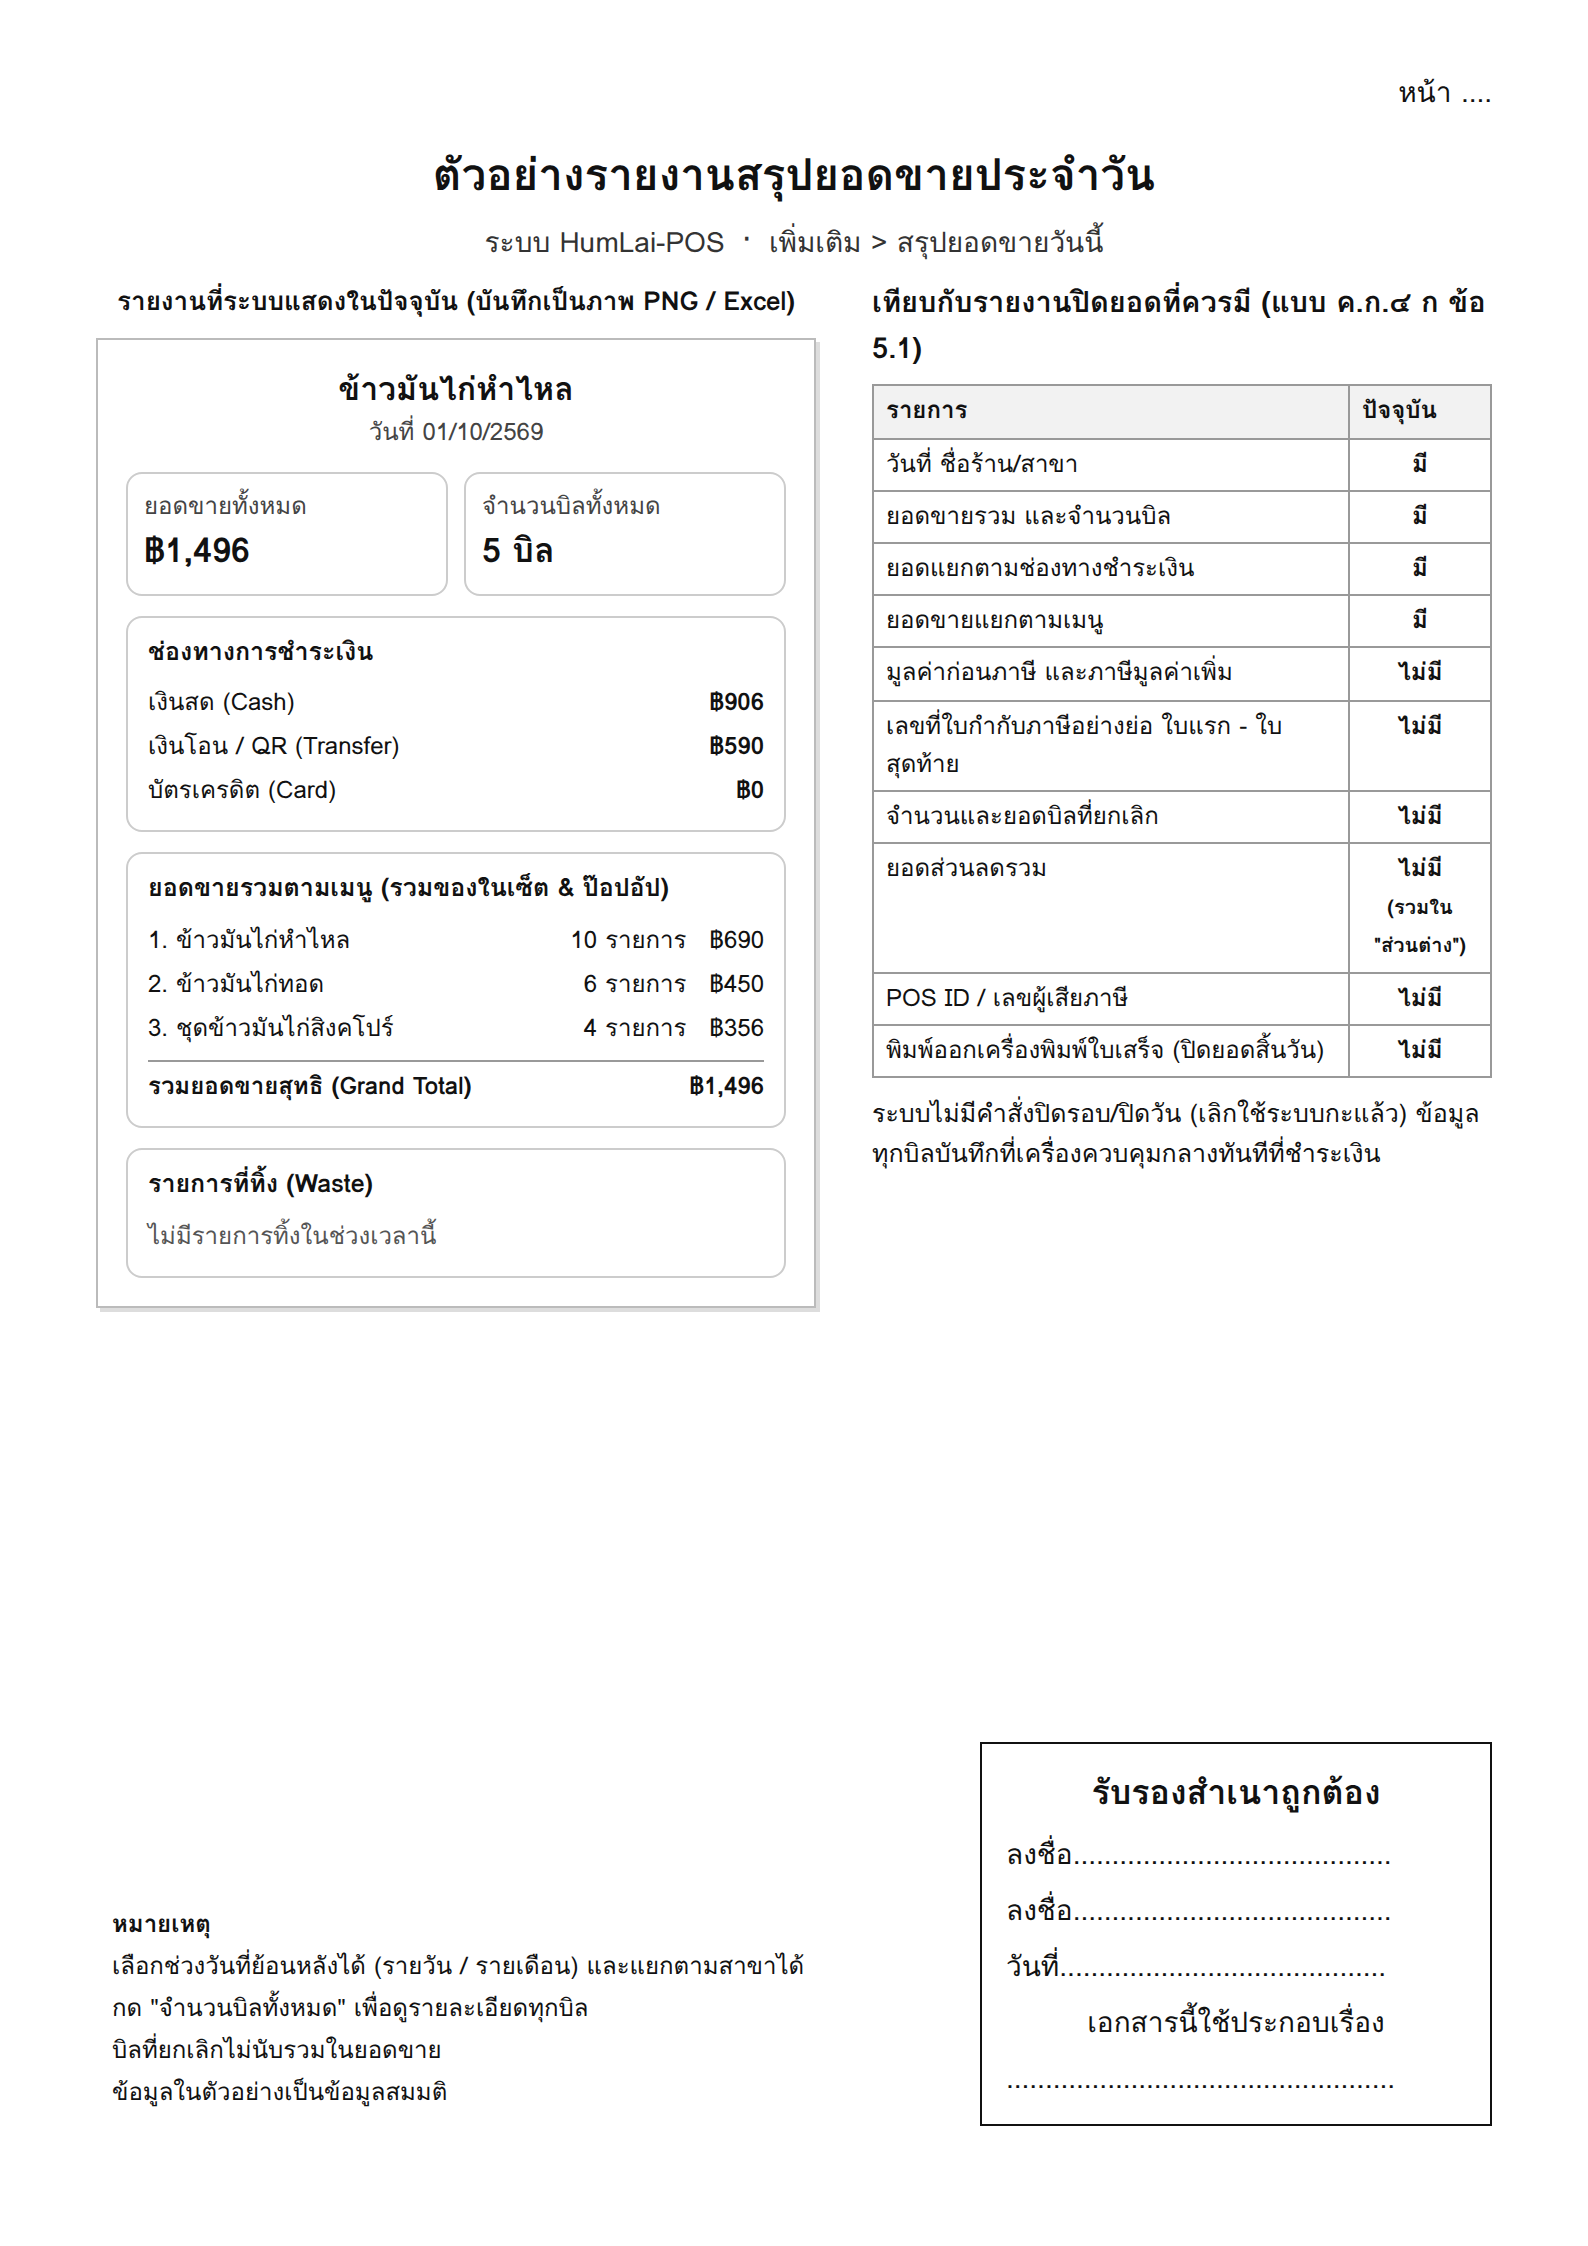
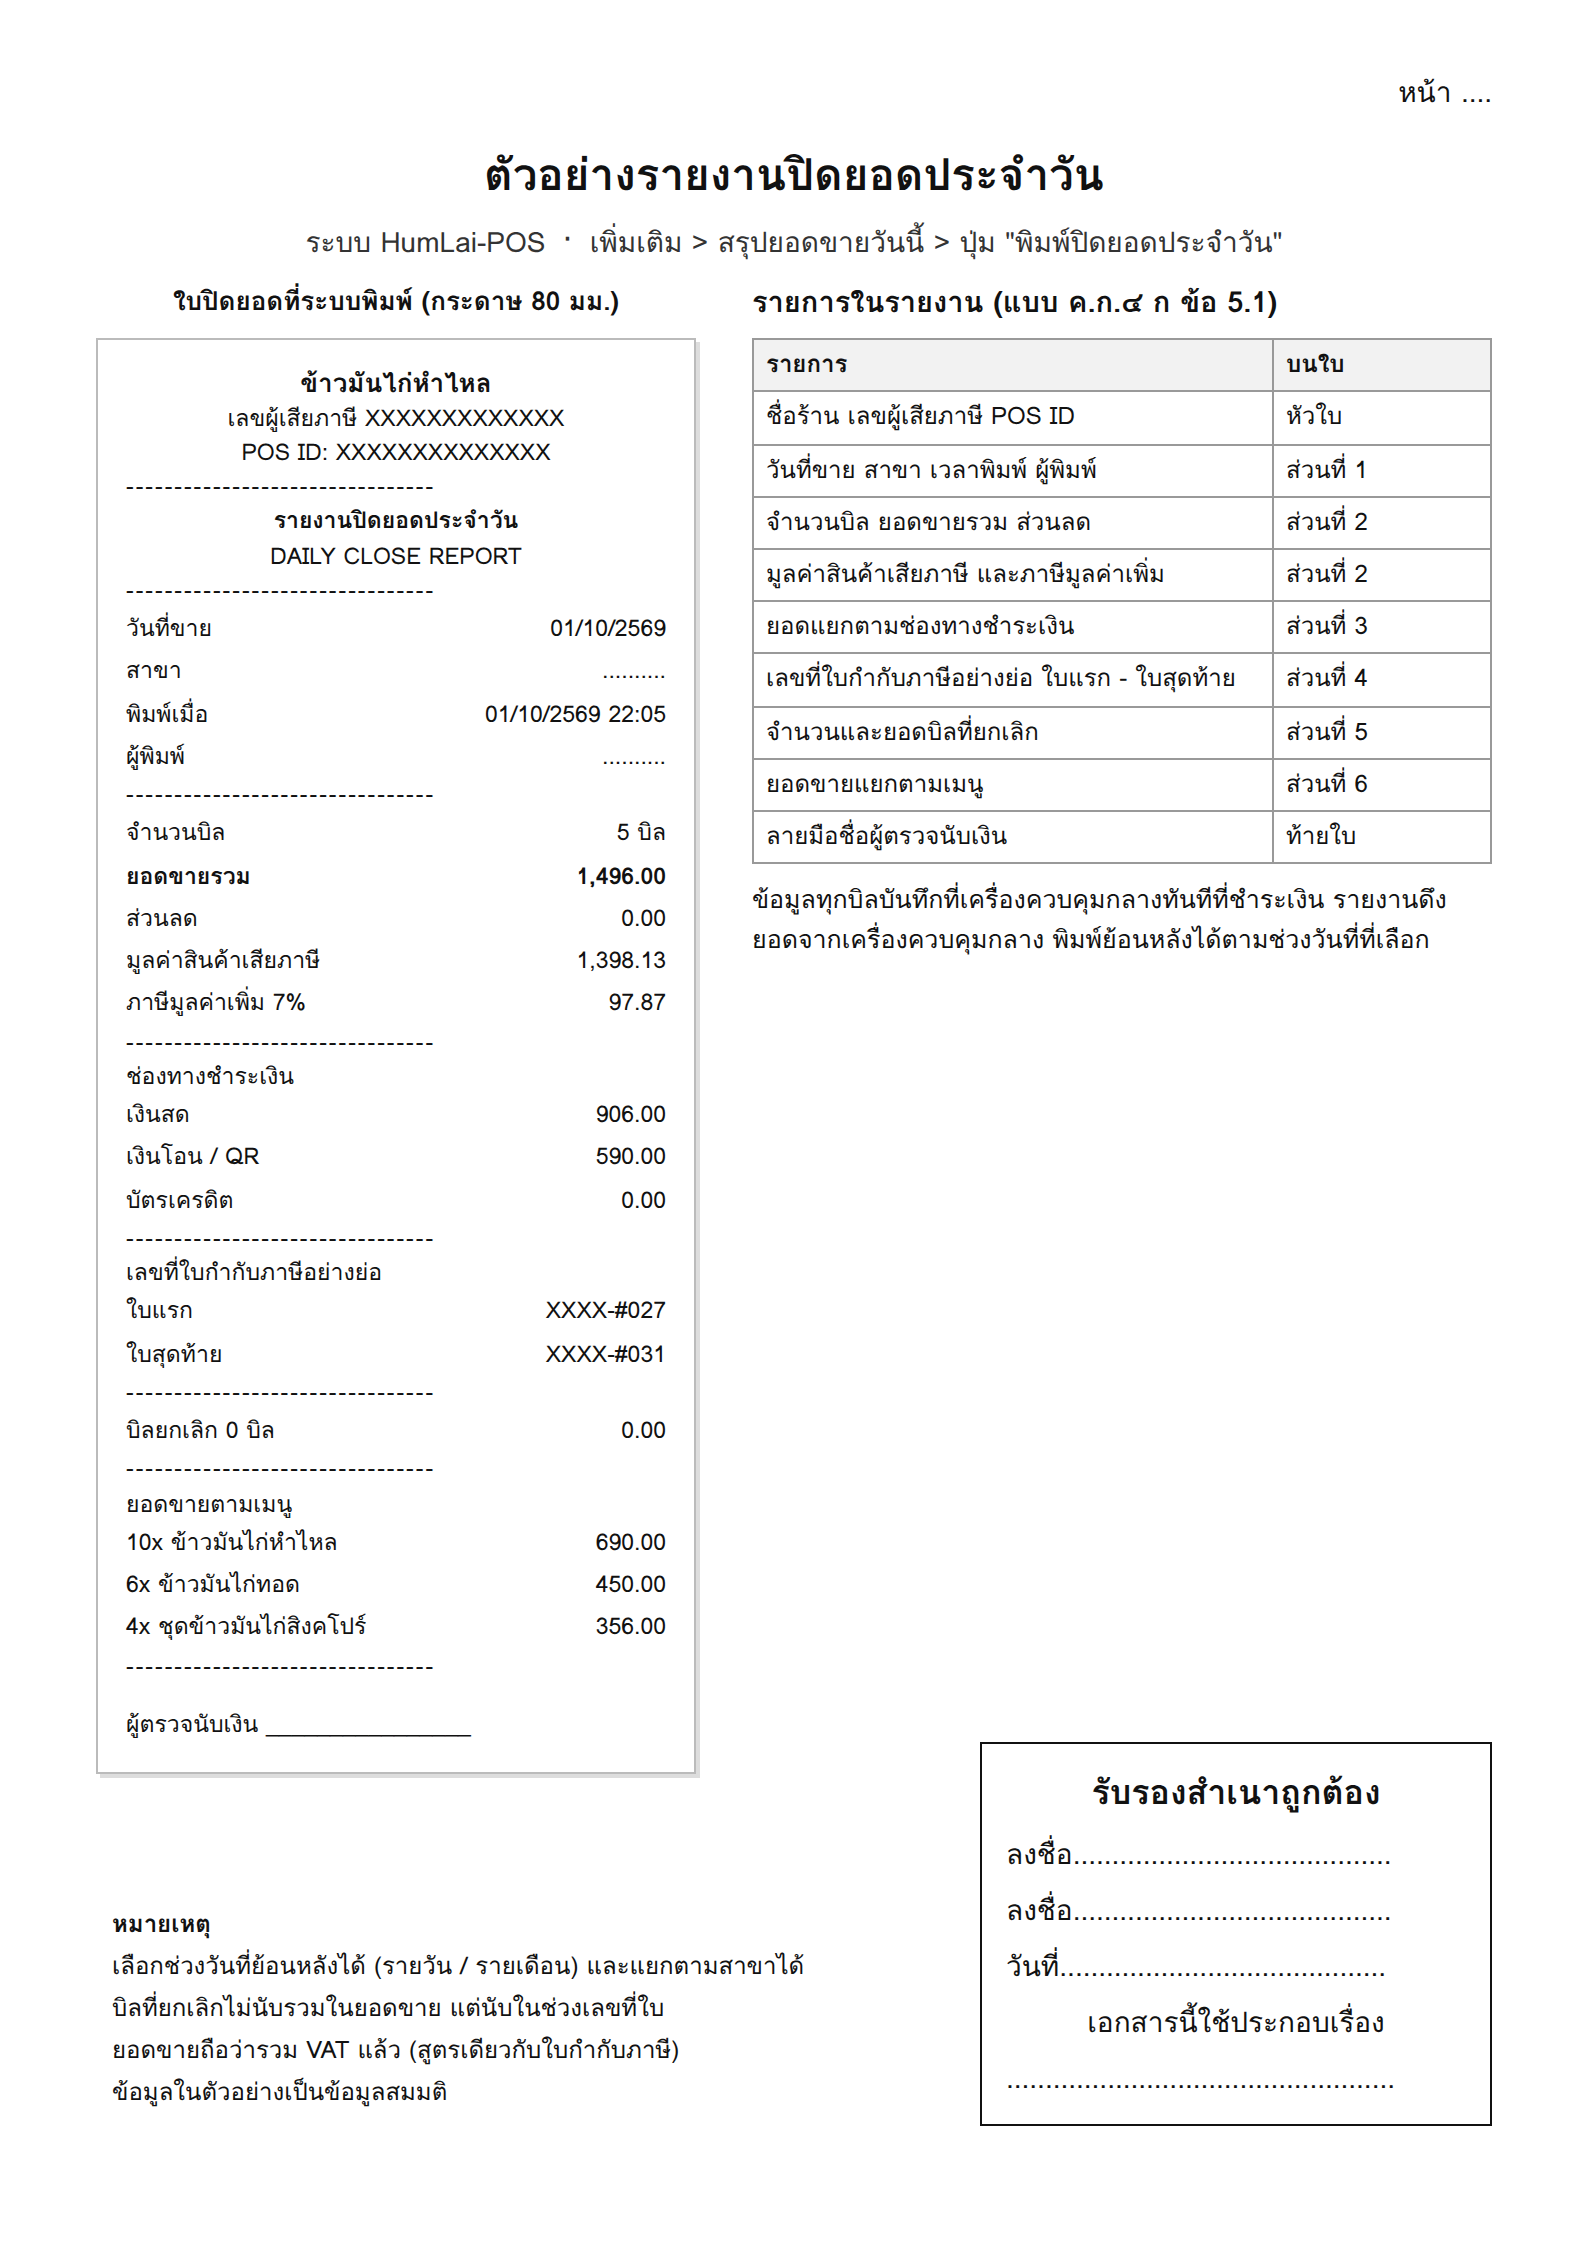
docs: หน้า 8 แสดงใบปิดยอดประจำวันที่ระบบพิมพ์
Claude-Session: https://claude.ai/code/session_01VQ4Mtjw4DYg2T1hjZxri2n

Changed region(s): [[0.0617, 0.0623, 0.9257, 0.7792], [0.0617, 0.8727, 0.432, 0.935], [0.3086, 0.3117, 0.4011, 0.3428]]

diff --git a/docs/revenue-pp06/p08-daily-summary.html b/docs/revenue-pp06/p08-daily-summary.html
@@ -26,63 +26,42 @@
   .side td,.side th{border:1px solid #999;padding:3px 6px;vertical-align:top}
   .side th{background:#f2f2f2;text-align:left}
   .ok{text-align:center;font-weight:700}
+  .slip{width:270px;border:1px solid #bbb;box-shadow:2px 2px 0 #ddd;padding:12px 14px 14px;font-size:11.5px;line-height:1.5}
+  .c{text-align:center}.b{font-weight:700}
+  .hr{overflow:hidden;white-space:nowrap;letter-spacing:1px}
   .cert{position:absolute;right:48px;bottom:60px;width:230px;border:1.5px solid #111;padding:8px 12px;font-size:14px;line-height:2}
   .cert b{display:block;text-align:center;font-size:17px}
   .note{position:absolute;left:56px;bottom:66px;width:440px;font-size:12px;line-height:1.75}
 </style></head><body>
 <div class="pg">หน้า ....</div>
-<h1>ตัวอย่างรายงานสรุปยอดขายประจำวัน</h1>
-<div class="sub">ระบบ HumLai-POS &nbsp;·&nbsp; เพิ่มเติม &gt; สรุปยอดขายวันนี้</div>
+<h1>ตัวอย่างรายงานปิดยอดประจำวัน</h1>
+<div class="sub">ระบบ HumLai-POS &nbsp;·&nbsp; เพิ่มเติม &gt; สรุปยอดขายวันนี้ &gt; ปุ่ม "พิมพ์ปิดยอดประจำวัน"</div>
 
 <div class="wrap">
-  <div class="col"><div class="cap">รายงานที่ระบบแสดงในปัจจุบัน (บันทึกเป็นภาพ PNG / Excel)</div>
-    <div class="card">
-      <div class="ttl">ข้าวมันไก่หำไหล</div>
-      <div class="date">วันที่ 01/10/2569</div>
-      <div class="two">
-        <div class="box"><div class="k">ยอดขายทั้งหมด</div><div class="v">฿1,496</div></div>
-        <div class="box"><div class="k">จำนวนบิลทั้งหมด</div><div class="v">5 บิล</div></div>
-      </div>
-      <div class="sec"><h4>ช่องทางการชำระเงิน</h4>
-        <div class="row"><span>เงินสด (Cash)</span><b>฿906</b></div>
-        <div class="row"><span>เงินโอน / QR (Transfer)</span><b>฿590</b></div>
-        <div class="row"><span>บัตรเครดิต (Card)</span><b>฿0</b></div>
-      </div>
-      <div class="sec"><h4>ยอดขายรวมตามเมนู (รวมของในเซ็ต &amp; ป๊อปอัป)</h4>
-        <div class="row"><span>1. ข้าวมันไก่หำไหล</span><span>10 รายการ &nbsp; ฿690</span></div>
-        <div class="row"><span>2. ข้าวมันไก่ทอด</span><span>6 รายการ &nbsp; ฿450</span></div>
-        <div class="row"><span>3. ชุดข้าวมันไก่สิงคโปร์</span><span>4 รายการ &nbsp; ฿356</span></div>
-        <div class="row tot"><span>รวมยอดขายสุทธิ (Grand Total)</span><span>฿1,496</span></div>
-      </div>
-      <div class="sec" style="margin-bottom:0"><h4>รายการที่ทิ้ง (Waste)</h4>
-        <div class="row"><span style="color:#555">ไม่มีรายการทิ้งในช่วงเวลานี้</span></div>
-      </div>
-    </div>
-  </div>
+  <div class="col"><div class="cap">ใบปิดยอดที่ระบบพิมพ์ (กระดาษ 80 มม.)</div><div class="slip" id="slip"></div></div>
   <div class="side">
-    <h3>เทียบกับรายงานปิดยอดที่ควรมี (แบบ ค.ก.๔ ก ข้อ 5.1)</h3>
+    <h3>รายการในรายงาน (แบบ ค.ก.๔ ก ข้อ 5.1)</h3>
     <table>
-      <tr><th>รายการ</th><th style="width:58px">ปัจจุบัน</th></tr>
-      <tr><td>วันที่ ชื่อร้าน/สาขา</td><td class="ok">มี</td></tr>
-      <tr><td>ยอดขายรวม และจำนวนบิล</td><td class="ok">มี</td></tr>
-      <tr><td>ยอดแยกตามช่องทางชำระเงิน</td><td class="ok">มี</td></tr>
-      <tr><td>ยอดขายแยกตามเมนู</td><td class="ok">มี</td></tr>
-      <tr><td>มูลค่าก่อนภาษี และภาษีมูลค่าเพิ่ม</td><td class="ok">ไม่มี</td></tr>
-      <tr><td>เลขที่ใบกำกับภาษีอย่างย่อ ใบแรก - ใบสุดท้าย</td><td class="ok">ไม่มี</td></tr>
-      <tr><td>จำนวนและยอดบิลที่ยกเลิก</td><td class="ok">ไม่มี</td></tr>
-      <tr><td>ยอดส่วนลดรวม</td><td class="ok">ไม่มี<br><small>(รวมใน "ส่วนต่าง")</small></td></tr>
-      <tr><td>POS ID / เลขผู้เสียภาษี</td><td class="ok">ไม่มี</td></tr>
-      <tr><td>พิมพ์ออกเครื่องพิมพ์ใบเสร็จ (ปิดยอดสิ้นวัน)</td><td class="ok">ไม่มี</td></tr>
+      <tr><th>รายการ</th><th style="width:96px">บนใบ</th></tr>
+      <tr><td>ชื่อร้าน เลขผู้เสียภาษี POS ID</td><td>หัวใบ</td></tr>
+      <tr><td>วันที่ขาย สาขา เวลาพิมพ์ ผู้พิมพ์</td><td>ส่วนที่ 1</td></tr>
+      <tr><td>จำนวนบิล ยอดขายรวม ส่วนลด</td><td>ส่วนที่ 2</td></tr>
+      <tr><td>มูลค่าสินค้าเสียภาษี และภาษีมูลค่าเพิ่ม</td><td>ส่วนที่ 2</td></tr>
+      <tr><td>ยอดแยกตามช่องทางชำระเงิน</td><td>ส่วนที่ 3</td></tr>
+      <tr><td>เลขที่ใบกำกับภาษีอย่างย่อ ใบแรก - ใบสุดท้าย</td><td>ส่วนที่ 4</td></tr>
+      <tr><td>จำนวนและยอดบิลที่ยกเลิก</td><td>ส่วนที่ 5</td></tr>
+      <tr><td>ยอดขายแยกตามเมนู</td><td>ส่วนที่ 6</td></tr>
+      <tr><td>ลายมือชื่อผู้ตรวจนับเงิน</td><td>ท้ายใบ</td></tr>
     </table>
-    <p style="margin:8px 0 0">ระบบไม่มีคำสั่งปิดรอบ/ปิดวัน (เลิกใช้ระบบกะแล้ว) ข้อมูลทุกบิลบันทึกที่เครื่องควบคุมกลางทันทีที่ชำระเงิน</p>
+    <p style="margin:8px 0 0">ข้อมูลทุกบิลบันทึกที่เครื่องควบคุมกลางทันทีที่ชำระเงิน รายงานดึงยอดจากเครื่องควบคุมกลาง พิมพ์ย้อนหลังได้ตามช่วงวันที่ที่เลือก</p>
   </div>
 </div>
 
 <div class="note">
   <b>หมายเหตุ</b><br>
   เลือกช่วงวันที่ย้อนหลังได้ (รายวัน / รายเดือน) และแยกตามสาขาได้<br>
-  กด "จำนวนบิลทั้งหมด" เพื่อดูรายละเอียดทุกบิล<br>
-  บิลที่ยกเลิกไม่นับรวมในยอดขาย<br>
+  บิลที่ยกเลิกไม่นับรวมในยอดขาย แต่นับในช่วงเลขที่ใบ<br>
+  ยอดขายถือว่ารวม VAT แล้ว (สูตรเดียวกับใบกำกับภาษี)<br>
   ข้อมูลในตัวอย่างเป็นข้อมูลสมมติ
 </div>
 <div class="cert"><b>รับรองสำเนาถูกต้อง</b>
@@ -92,4 +71,37 @@
 <span style="display:block;text-align:center">เอกสารนี้ใช้ประกอบเรื่อง</span>
 ..................................................
 </div>
+<script>
+// เลียนแบบ printDailyClose() ใน print-ticket.js
+const m = v => v.toLocaleString('en-US', { minimumFractionDigits: 2, maximumFractionDigits: 2 });
+const dash = '<div class="hr">' + '-'.repeat(32) + '</div>';
+const row = (k, v, cls = '') => `<div class="row ${cls}"><span>${k}</span><span>${v}</span></div>`;
+const total = 1496, vatable = Math.round(total * 100 / 107 * 100) / 100;
+const menu = [['ข้าวมันไก่หำไหล', 10, 690], ['ข้าวมันไก่ทอด', 6, 450], ['ชุดข้าวมันไก่สิงคโปร์', 4, 356]];
+document.getElementById('slip').innerHTML = `
+  <div class="c b" style="font-size:13px">ข้าวมันไก่หำไหล</div>
+  <div class="c">เลขผู้เสียภาษี XXXXXXXXXXXXX</div>
+  <div class="c">POS ID: XXXXXXXXXXXXXX</div>
+  ${dash}
+  <div class="c b">รายงานปิดยอดประจำวัน</div>
+  <div class="c">DAILY CLOSE REPORT</div>
+  ${dash}
+  ${row('วันที่ขาย', '01/10/2569')}${row('สาขา', '..........')}${row('พิมพ์เมื่อ', '01/10/2569 22:05')}${row('ผู้พิมพ์', '..........')}
+  ${dash}
+  ${row('จำนวนบิล', '5 บิล')}${row('ยอดขายรวม', m(total), 'b')}${row('ส่วนลด', m(0))}
+  ${row('มูลค่าสินค้าเสียภาษี', m(vatable))}${row('ภาษีมูลค่าเพิ่ม 7%', m(Math.round((total - vatable) * 100) / 100))}
+  ${dash}
+  <div>ช่องทางชำระเงิน</div>
+  ${row('เงินสด', m(906))}${row('เงินโอน / QR', m(590))}${row('บัตรเครดิต', m(0))}
+  ${dash}
+  <div>เลขที่ใบกำกับภาษีอย่างย่อ</div>
+  ${row('ใบแรก', 'XXXX-#027')}${row('ใบสุดท้าย', 'XXXX-#031')}
+  ${dash}
+  ${row('บิลยกเลิก 0 บิล', m(0))}
+  ${dash}
+  <div>ยอดขายตามเมนู</div>
+  ${menu.map(([n, q, a]) => row(`${q}x ${n}`, m(a))).join('')}
+  ${dash}
+  <div style="margin-top:12px">ผู้ตรวจนับเงิน ________________</div>`;
+</script>
 </body></html>
